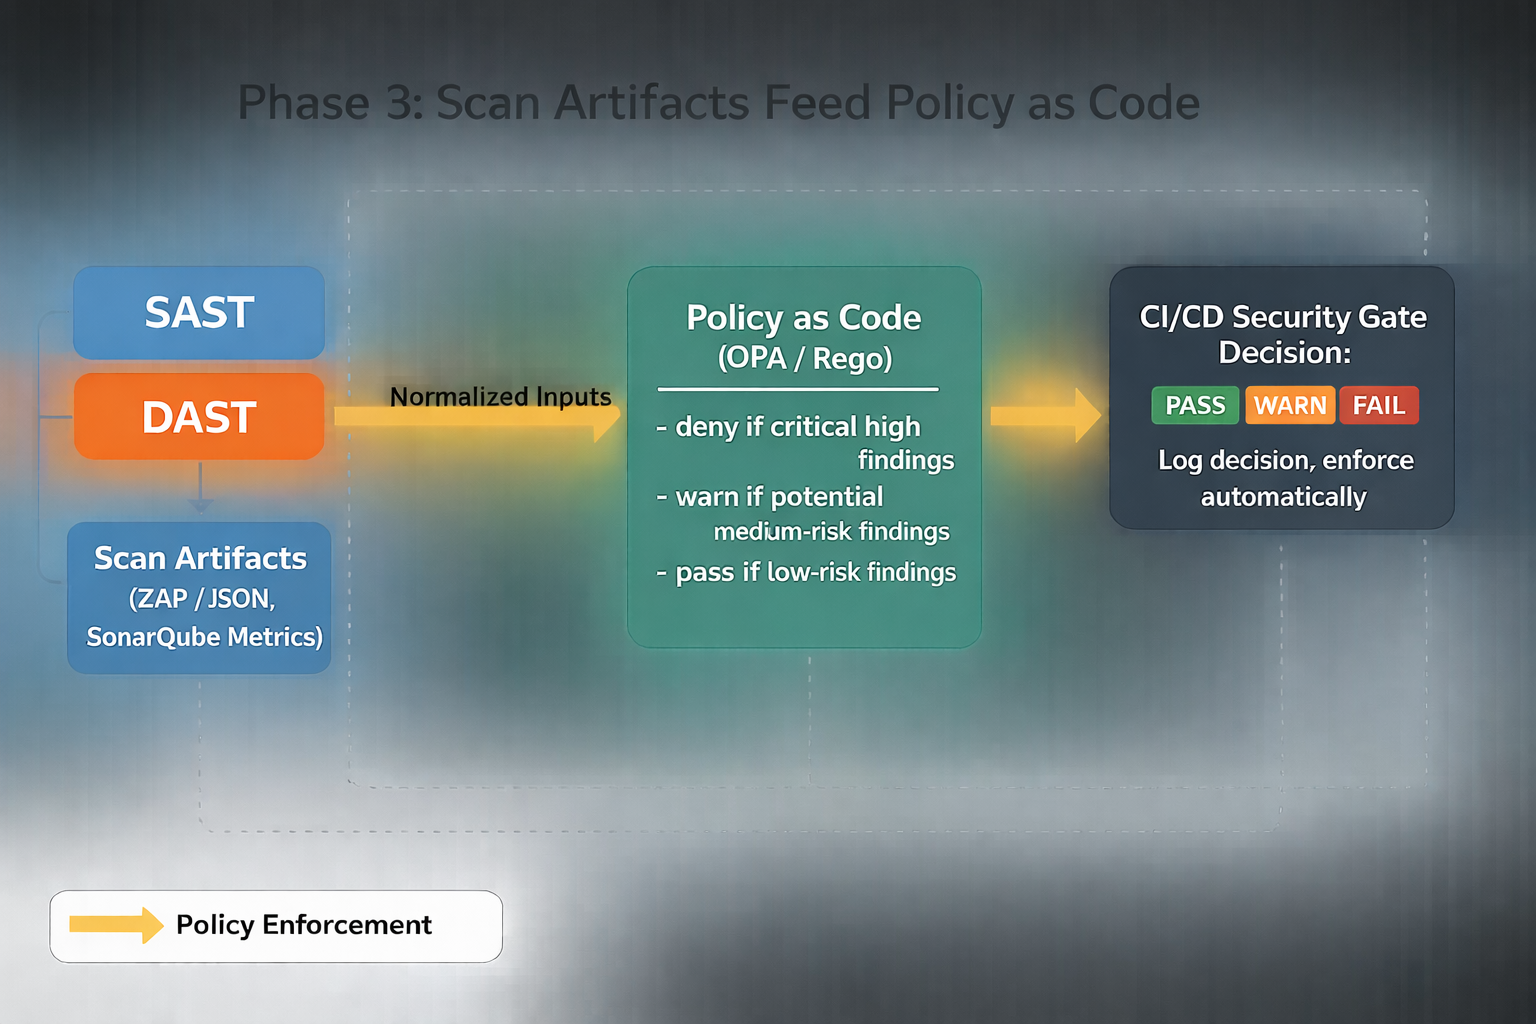
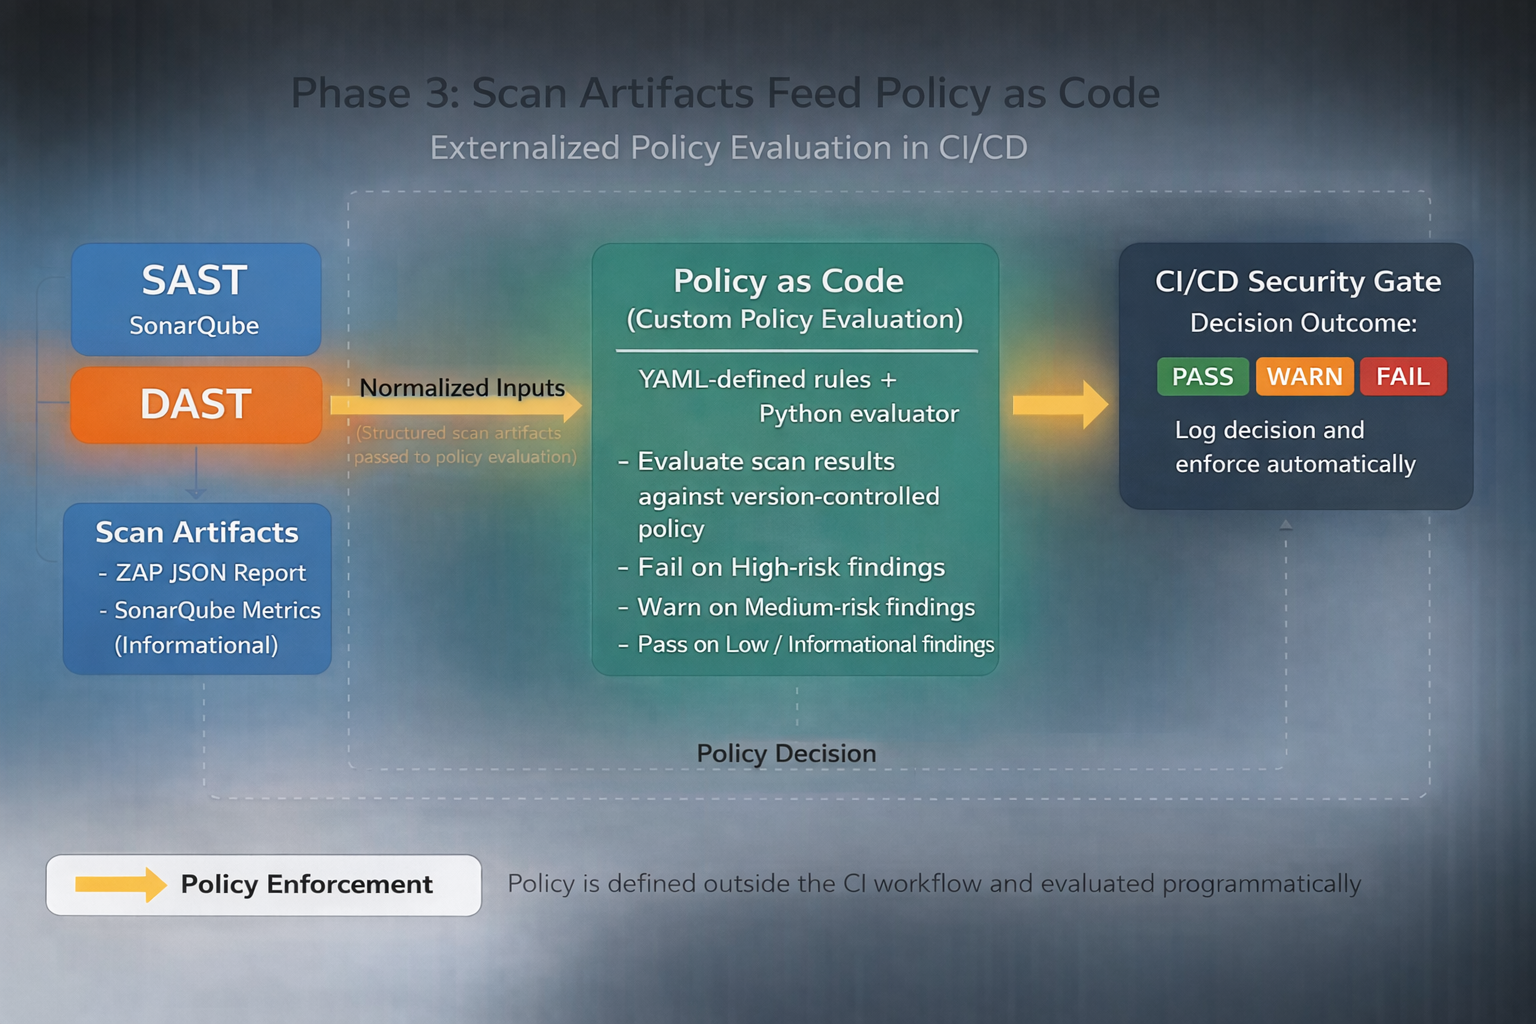
fix: enhance DAST policy evaluation and enforcement in CI pipeline; update README for clarity

diff --git a/scripts/evaluate_dast_policy.py b/scripts/evaluate_dast_policy.py
@@ -1,39 +1,155 @@
+#!/usr/bin/env python3
 import json
+import os
 import sys
-import yaml
 
-ZAP_REPORT = "zap-report.json"
-POLICY_FILE = "policy/dast-gate.yml"
+try:
+    import yaml  # pyyaml
+except ImportError:
+    yaml = None
 
-def load_policy():
-    with open(POLICY_FILE, "r") as f:
-        return yaml.safe_load(f)
 
-def load_zap_report():
-    with open(ZAP_REPORT, "r") as f:
-        return json.load(f)
+RISK_NORMALIZATION = {
+    "0": "Informational",
+    "1": "Low",
+    "2": "Medium",
+    "3": "High",
+    "informational": "Informational",
+    "info": "Informational",
+    "low": "Low",
+    "medium": "Medium",
+    "med": "Medium",
+    "high": "High",
+}
 
-def main():
-    policy = load_policy()
-    report = load_zap_report()
 
-    fail_levels = policy["enforcement"]["fail_on"]["risk_levels"]
+def normalize_risk(value: str) -> str:
+    if value is None:
+        return "Informational"
+    v = str(value).strip()
+    if not v:
+        return "Informational"
 
-    alerts = report.get("site", [{}])[0].get("alerts", [])
-    violations = []
+    # Common formats: "High (3)", "Medium (2)", "Low (1)", "Informational (0)"
+    token = v.split()[0].lower()
+    if token in RISK_NORMALIZATION:
+        return RISK_NORMALIZATION[token]
 
-    for alert in alerts:
-        if alert.get("risk") in fail_levels:
-            violations.append(alert)
+    # Sometimes riskcode is numeric 0-3
+    if v in RISK_NORMALIZATION:
+        return RISK_NORMALIZATION[v]
 
-    if violations:
-        print("Policy evaluation failed")
-        for v in violations:
-            print(f"- {v['alert']} (Risk: {v['risk']})")
-        sys.exit(1)
+    return "Informational"
 
-    print("Policy evaluation passed")
-    sys.exit(0)
+
+def extract_alerts(zap_json: dict) -> list[dict]:
+    """
+    Supports common ZAP JSON structures produced by zap-baseline.py.
+    We try a few shapes defensively.
+    """
+    alerts = []
+
+    # Shape A: {"site":[{"alerts":[...]}]}
+    if isinstance(zap_json.get("site"), list):
+        for site in zap_json["site"]:
+            site_alerts = site.get("alerts", [])
+            if isinstance(site_alerts, list):
+                alerts.extend(site_alerts)
+
+    # Shape B: {"alerts":[...]}
+    if not alerts and isinstance(zap_json.get("alerts"), list):
+        alerts = zap_json["alerts"]
+
+    return alerts
+
+
+def count_by_risk(alerts: list[dict]) -> dict:
+    counts = {"High": 0, "Medium": 0, "Low": 0, "Informational": 0}
+
+    for a in alerts:
+        # ZAP often has riskdesc like "Medium (2)" and/or riskcode like "2"
+        risk = normalize_risk(a.get("riskdesc") or a.get("riskcode"))
+        if risk not in counts:
+            risk = "Informational"
+        counts[risk] += 1
+
+    return counts
+
+
+def decide(counts: dict, policy: dict) -> tuple[str, list[str]]:
+    fail_on = set(policy.get("rules", {}).get("fail_on", []))
+    warn_on = set(policy.get("rules", {}).get("warn_on", []))
+
+    reasons = []
+    for r in ["High", "Medium", "Low", "Informational"]:
+        if counts.get(r, 0) > 0:
+            reasons.append(f"{r}: {counts[r]}")
+
+    if any(counts.get(r, 0) > 0 for r in fail_on):
+        return "FAIL", reasons
+    if any(counts.get(r, 0) > 0 for r in warn_on):
+        return "WARN", reasons
+    return "PASS", reasons
+
+
+def load_policy(path: str) -> dict:
+    if not os.path.exists(path):
+        raise FileNotFoundError(f"Policy file not found: {path}")
+
+    if yaml is None:
+        raise RuntimeError(
+            "PyYAML is not installed. Install it or update the workflow to pip install pyyaml."
+        )
+
+    with open(path, "r", encoding="utf-8") as f:
+        return yaml.safe_load(f) or {}
+
+
+def main() -> int:
+    if len(sys.argv) < 2:
+        print("Usage: evaluate_dast_policy.py <policy_yaml> [zap_json_path] [output_json_path]")
+        return 2
+
+    policy_path = sys.argv[1]
+    policy = load_policy(policy_path)
+
+    zap_path = sys.argv[2] if len(sys.argv) >= 3 else policy.get("inputs", {}).get("zap_json")
+    if not zap_path:
+        print("ZAP JSON path not provided and not found in policy inputs.")
+        return 2
+
+    output_path = sys.argv[3] if len(sys.argv) >= 4 else "policy/dast-policy-result.json"
+
+    if not os.path.exists(zap_path):
+        print(f"ZAP JSON not found: {zap_path}")
+        return 2
+
+    with open(zap_path, "r", encoding="utf-8") as f:
+        zap_json = json.load(f)
+
+    alerts = extract_alerts(zap_json)
+    counts = count_by_risk(alerts)
+    decision, reasons = decide(counts, policy)
+
+    result = {
+        "policy": policy.get("policy", {}),
+        "input": {"zap_json": zap_path},
+        "counts": counts,
+        "decision": decision,
+        "reasons": reasons,
+    }
+
+    os.makedirs(os.path.dirname(output_path), exist_ok=True)
+    with open(output_path, "w", encoding="utf-8") as f:
+        json.dump(result, f, indent=2)
+
+    print(json.dumps(result, indent=2))
+
+    # Return codes: PASS=0, WARN=0 (non-blocking), FAIL=1
+    if decision == "FAIL":
+        return 1
+    return 0
+
 
 if __name__ == "__main__":
-    main()
+    raise SystemExit(main())

diff --git a/README.md b/README.md
@@ -1,10 +1,13 @@
 # SAST & DAST Security Assessment – OWASP Juice Shop
 
 
-![SonarQube](https://img.shields.io/badge/SAST-SonarQube-informational)
-![OWASP ZAP](https://img.shields.io/badge/DAST-OWASP%20ZAP-informational)
-![Docker](https://img.shields.io/badge/Platform-Docker-blue)
-![Status](https://img.shields.io/badge/Project-Completed-brightgreen)
+![SAST](https://img.shields.io/badge/SAST-SonarQube-informational)
+![DAST](https://img.shields.io/badge/DAST-OWASP%20ZAP-informational)
+![Policy as Code](https://img.shields.io/badge/Policy%20as%20Code-Custom%20Policy-blue)
+![CI/CD](https://img.shields.io/badge/CI%2FCD-GitHub%20Actions-blue)
+![Platform](https://img.shields.io/badge/Platform-Docker-lightgrey)
+![Status](https://img.shields.io/badge/Project-Active-success)
+
 
 ## Table of Contents
 
@@ -18,7 +21,7 @@
 - [SAST vs DAST Comparison](#sast-vs-dast-comparison)
 - [Key Findings (Executive View)](#key-findings-executive-view)
 - [CI Evidence](#ci-evidence)
-- [Phase 3 – Policy as Code Enforcement (CI/CD)](#phase-3--policy-as-code-enforcement-(CI/CD))
+- [Phase 3 – Policy as Code Enforcement](#phase-3--policy-as-code-enforcement)
 - [Security Engineering Takeaways](#security-engineering-takeaways)
 - [Limitations](#limitations)
 - [Disclaimer](#disclaimer)
@@ -53,7 +56,8 @@ The application is intentionally vulnerable to support security testing and anal
 - **SonarQube (Community Edition)** – Static Application Security Testing
 - **OWASP ZAP (Baseline Scan)** – Dynamic Application Security Testing
 - **Docker** – Containerized execution for local and CI environments
-- **GitHub Actions** – CI/CD automation for SAST and DAST (Phase 2)
+- **GitHub Actions** – CI/CD orchestration for security scanning, policy evaluation, and enforcement
+
 
 ---
 
@@ -119,13 +123,15 @@ This project includes a fully automated GitHub Actions pipeline that:
 
 Screenshots of successful pipeline execution are included in `/screenshots`.
 
+Policy evaluation results are published alongside scan summaries to make enforcement decisions transparent and explainable.
+
 ---
 
-## Phase 3 – Policy as Code Enforcement (CI/CD)
+## Phase 3 – Policy as Code Enforcement 
 
-Phase 3 extends the CI/CD security pipeline by externalizing security enforcement logic into an explicit Policy as Code layer. This phase demonstrates how security decisions can be defined, reviewed, and enforced independently of individual tools or pipeline implementation.
+Phase 3 extends the CI/CD security pipeline by externalizing security enforcement logic into an explicit, version-controlled Policy as Code layer evaluated during CI execution. This phase demonstrates how security decisions can be defined, reviewed, and enforced independently of individual tools or pipeline implementation.
 
-Rather than embedding pass or fail logic directly within CI workflow steps, enforcement thresholds are defined as version-controlled policy and evaluated programmatically during pipeline execution.
+Rather than hard-coding enforcement logic directly into CI steps or relying solely on tool exit codes, enforcement thresholds are defined as version-controlled policy and evaluated programmatically during pipeline execution.
 
 ![Phase 3 Architecture Diagram](assets/phase3-diagram.png)
 
@@ -137,7 +143,7 @@ The Phase 3 architecture separates security tooling, policy definition, and enfo
 
 - **Security tools** (SonarQube and OWASP ZAP) generate structured security findings.
 - **CI/CD orchestration** (GitHub Actions) executes scans and coordinates pipeline flow.
-- **Policy as Code** defines explicit enforcement thresholds independent of tooling.
+- **Policy as Code** defines explicit enforcement thresholds independent of CI logic and security tools.
 - **Policy evaluation logic** applies policy rules to scan results and returns a deterministic decision.
 
 This separation mirrors real-world DevSecOps patterns where security teams define guardrails and engineering teams execute against them without embedding policy directly into CI logic.
@@ -146,7 +152,9 @@ This separation mirrors real-world DevSecOps patterns where security teams defin
 
 ### Policy Design
 
-Security enforcement rules are defined in a version-controlled policy file located in the `policy/` directory. The policy explicitly specifies:
+Security enforcement rules are defined in a version-controlled policy file located in the `policy/` directory and evaluated programmatically during CI execution.
+
+ The policy explicitly specifies:
 
 - Which OWASP ZAP risk levels are considered blocking
 - Which findings are permitted to pass
@@ -154,7 +162,8 @@ Security enforcement rules are defined in a version-controlled policy file locat
 
 Only **HIGH-severity runtime findings** result in pipeline failure. Medium and lower severity findings are allowed to pass while remaining visible for triage and remediation planning.
 
-This approach prioritizes runtime-exploitable risk while preserving developer velocity.
+This approach prioritizes runtime-exploitable risk while preserving developer velocity and providing an explicit, auditable enforcement decision.
+
 
 ---
 
@@ -163,10 +172,12 @@ This approach prioritizes runtime-exploitable risk while preserving developer ve
 1. OWASP ZAP performs a baseline DAST scan against the running application.
 2. ZAP generates a structured JSON report.
 3. A policy evaluation script parses the report and applies enforcement rules defined in Policy as Code.
-4. The pipeline fails or passes based on policy evaluation results.
+4. The pipeline enforces a pass, warn, or fail decision based on policy evaluation results.
 5. Scan artifacts and enforcement decisions are preserved for transparency and auditability.
+6. Scan artifacts used for policy evaluation are generated dynamically during CI execution and are not committed to source control.
 
-The CI pipeline executes policy but does not define it.
+
+The CI pipeline executes policy but does not define enforcement logic.
 
 ---
 
